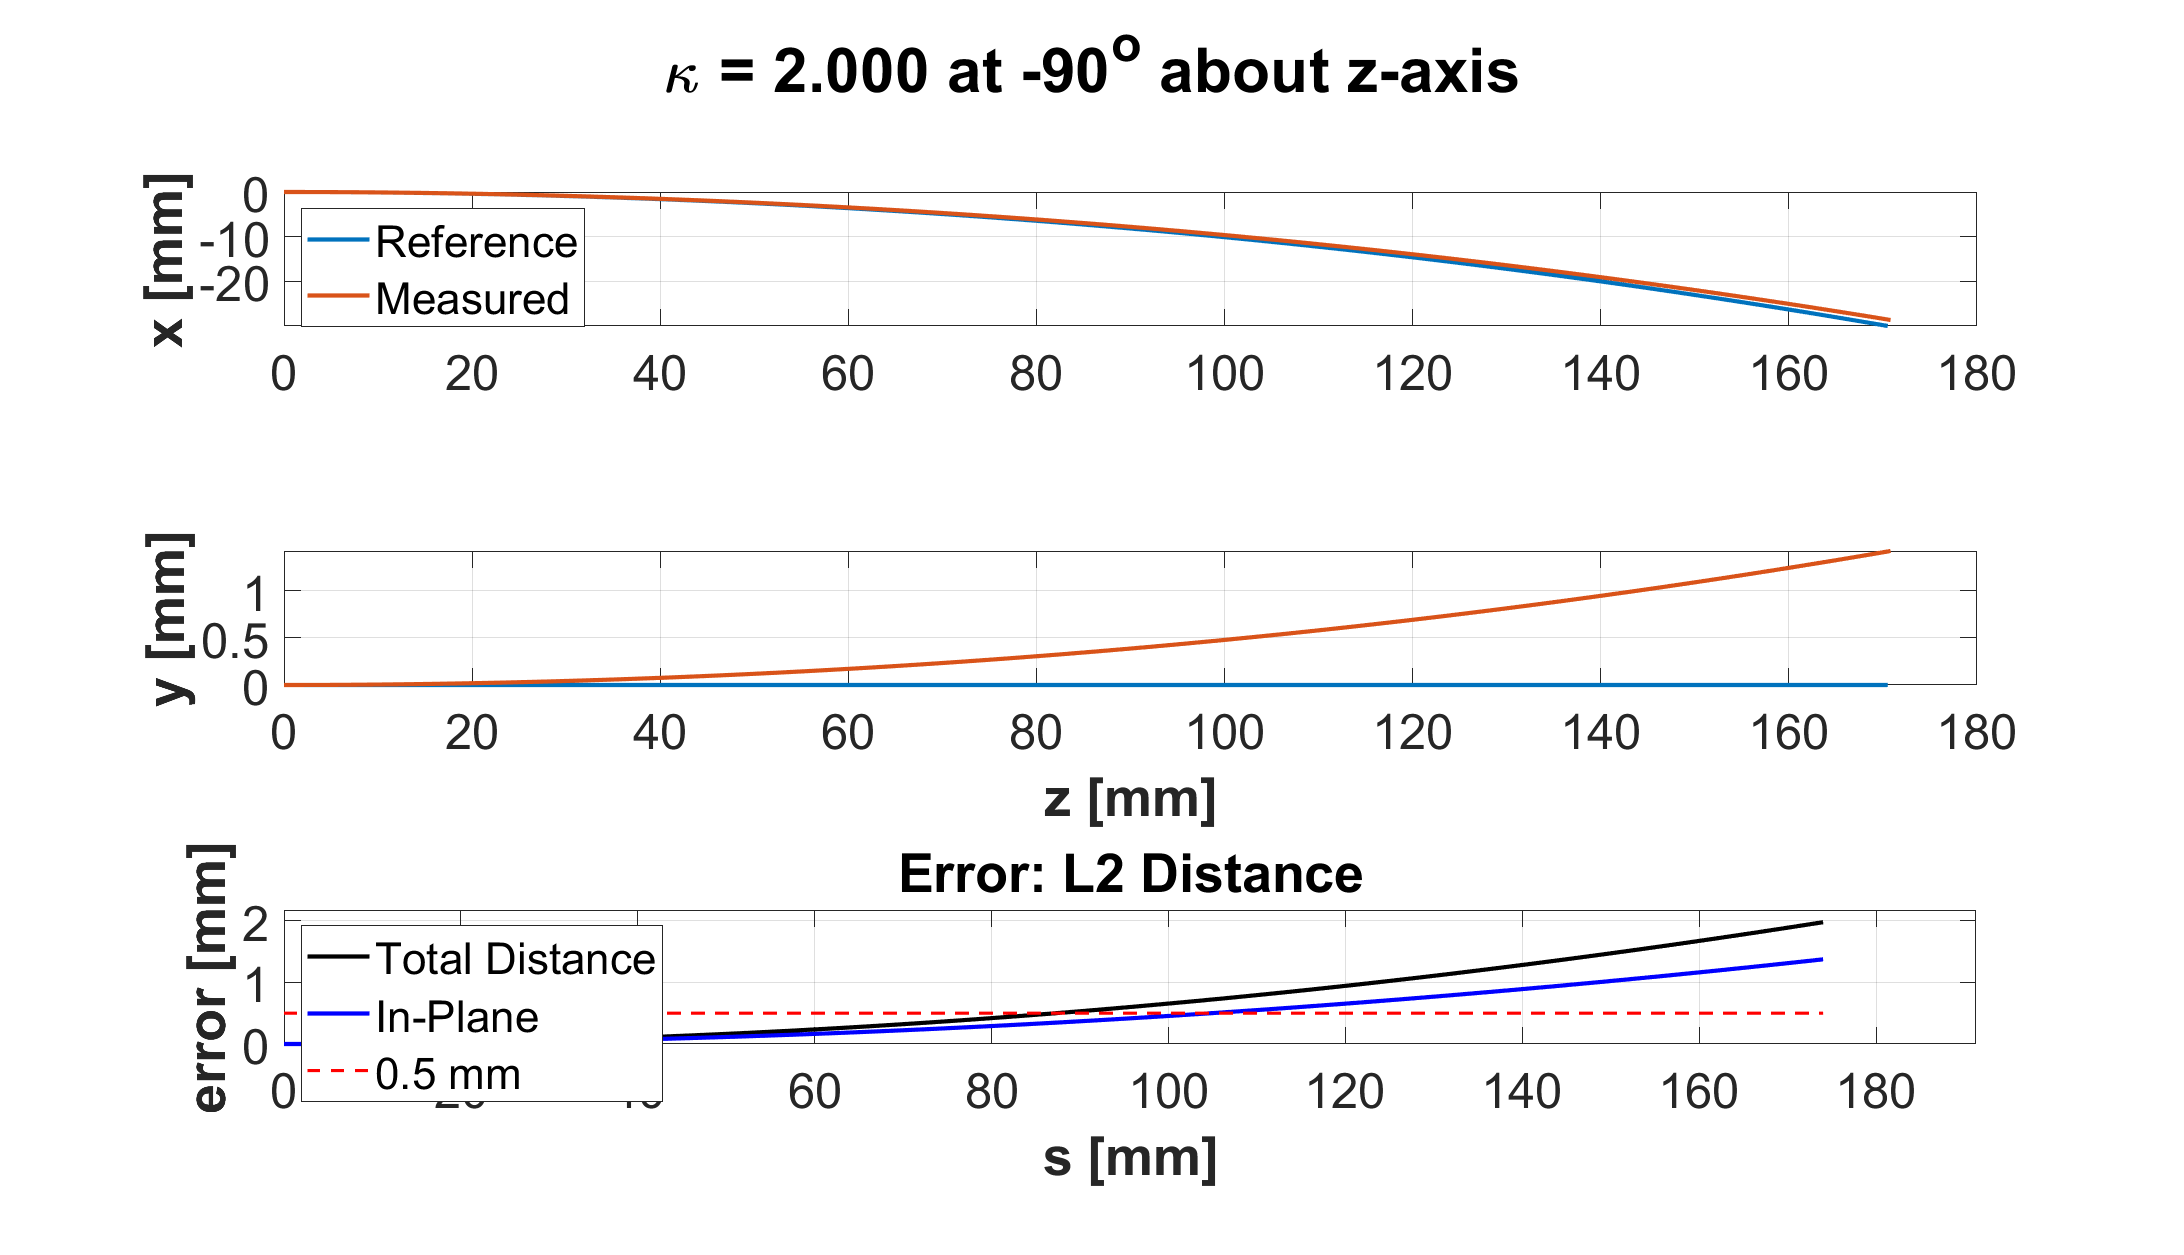
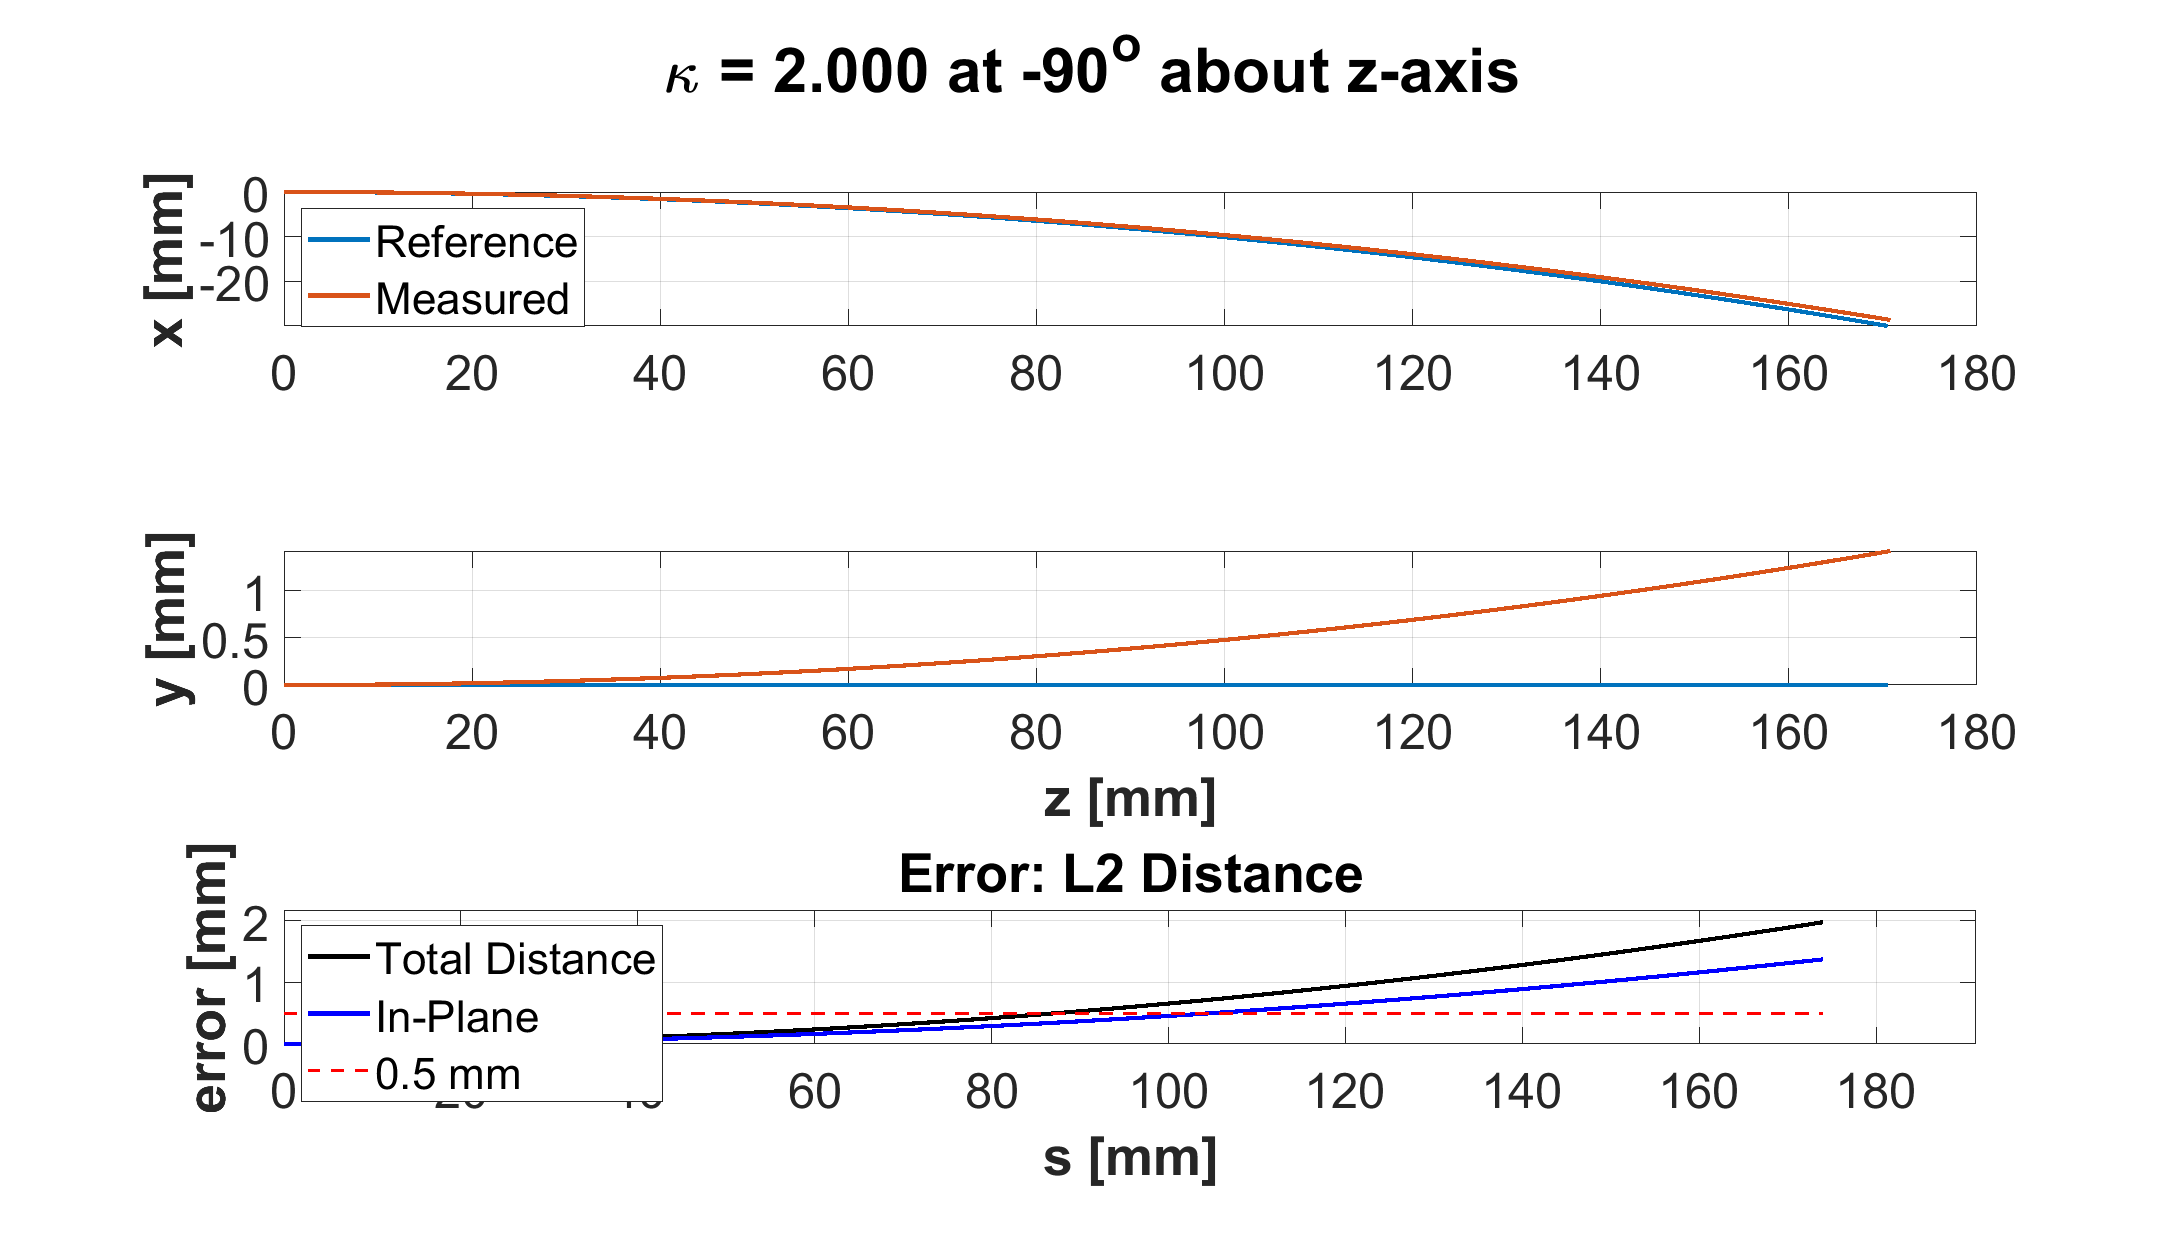
added old files

Changed region(s): [[0.5916, 0.7769, 0.6538, 0.808], [0.4048, 0.808, 0.467, 0.839]]

diff --git a/src/calibrationMatrix.py b/src/calibrationMatrix.py
@@ -11,7 +11,6 @@ import pandas as pd
 import glob, re, xlrd
 import time  # for debugging purposes
 from datetime import timedelta, datetime
-from _pickle import load
 from FBGNeedle import FBGNeedle
 
 
@@ -323,7 +322,11 @@ def leastsq_fit ( dict_of_data: dict, outfile: str = None, curv_wgt_rule = lambd
             curvature = np.asarray( curvature, dtype = np.float64 )
         
         # perform the weighting
-        weights = np.sqrt( np.diag( [curv_wgt_rule( k ) for k in np.linalg.norm( curvature, axis = 1 )] ) )
+        if aa in ['AA3', 'AA4']:
+            weights = np.sqrt( np.diag( [curv_wgt_rule( k ) for k in np.linalg.norm( curvature, axis = 1 )] ) )
+            
+        else:
+            weights = np.identity(curvature.shape[0])
         signal_w = weights.dot( signal )
         curvature_w = weights.dot( curvature )
         
@@ -836,12 +839,27 @@ def main_calmat():
     directory = "../FBG_Needle_Calibration_Data/needle_3CH_4AA/"
     needlejsonfile = "needle_params.json"
     
-    datadir = directory + "Jig_Calibration_08-05-20/"
-    datafile = "Data Matrices.xlsx"
+    # regular calibration data
+#     datadir = directory + "Jig_Calibration_08-05-20/"
+#     datafile = "Data Matrices_new.xlsx"
+#     needleparamfile = "needle_params.csv"
+#     out_needlejsonfile = needlejsonfile[:-5] + '-' + datadir.split( '/' )[-2] + '.json'
+    
+    # test mixed calibration data
+    datadir = directory + "Validation_Jig_Calibration_08-19-20/"
+    datafile = "Calibration_Test_Data_Matrices.xlsx"
     needleparamfile = "needle_params.csv"
     out_needlejsonfile = needlejsonfile[:-5] + '-' + datadir.split( '/' )[-2] + '.json'
     
+    
     lstsq_logfile = "least_sq.log"
+
+    # weighted least squares
+    weighted = True
+    if weighted:
+        out_needlejsonfile = out_needlejsonfile.replace('.json', '_weighted.json')
+        lstsq_logfile = lstsq_logfile.replace('.log', '_weighted.log')
+    # if
 
     fbg_needle = FBGNeedle.load_json( directory + needlejsonfile )
 #     calibration_data = _read_datamatrices( datadir + datafile, fbg_needle ) # deprecated
@@ -857,8 +875,19 @@ def main_calmat():
         print( 75 * '=' )
          
     # for
-
-    calibration_matrices = leastsq_fit( calibration_data, directory + lstsq_logfile )
+    
+    if weighted:
+        curv_wght_rule = lambda k: 5 if k <= 1.0 else 0.05
+        
+    # if
+    
+    else:
+        curv_wght_rule = lambda k: 1.0
+        
+    # else
+    
+    calibration_matrices = leastsq_fit( calibration_data, directory + lstsq_logfile,
+                                        curv_wgt_rule = curv_wght_rule )
     write_calibration_matrices( calibration_matrices, fbg_needle,
                                 fbg_outjson_file = directory + out_needlejsonfile )
     print( f"Wrote calibration matrices to '{needleparamfile}'" )
@@ -890,7 +919,7 @@ def main_datamatrices():
 # main_datamatrices
 
 
-def main_join_calval():
+def main_join_calval_signal():
     # load the directories
     directory = "../FBG_Needle_Calibration_Data/needle_3CH_4AA/"
     needlejsonfile = "needle_params-Jig_Calibration_08-05-20.json"
@@ -898,9 +927,9 @@ def main_join_calval():
     datadir_cal = directory + "Jig_Calibration_08-05-20/"
     datadir_val = directory + "Validation_Jig_Calibration_08-19-20/"
     
-    datafile_cal = datadir_cal + "Data Matrices (All).xlsx"
+    datafile_cal = datadir_cal + "Data Matrices_new.xlsx"
     datafile_val = datadir_val + "Data Matrices.xlsx"
-    datafile_out = datadir_val + "Data Matrices_all_calval"
+    datafile_out = datadir_val + "Data Matrices_calval"
     datafile_comb = datafile_out + ".xlsx"
     
     # load the FBGNeedle
@@ -1031,14 +1060,28 @@ def main_join_calval():
 def main_validation():
     # load the file information needed
     directory = "../FBG_Needle_Calibration_Data/needle_3CH_4AA/"
-    needlejsonfile = "needle_params-Jig_Calibration_08-05-20.json"
+    needlejsonfile = "needle_params-Jig_Calibration_08-05-20_weighted.json"
     
+#     # calibration
+#     datadir = directory + "Jig_Calibration_08-05-20/"
+#     datafile = "Data Matrices_new.xlsx"
+#     out_file = datadir + "Calibration_Error_raw.xlsx"
+    
+#     # validation
 #     datadir = directory + "Validation_Jig_Calibration_08-19-20/"
-    datadir = directory + "Jig_Calibration_08-05-20/"
-    datafile = "Data Matrices.xlsx"
-    
+#     datafile = "Data Matrices.xlsx"
 #     out_file = datadir + "Validation_Error_raw.xlsx"
-    out_file = datadir + "Calibration_Error_raw.xlsx"
+    
+    # test mixed calibration data
+    datadir = directory + "Validation_Jig_Calibration_08-19-20/"
+    datafile = "Calibration_Test_Data_Matrices.xlsx"
+    out_file = datadir + "Test_Calibration_error_raw.xlsx"
+    
+    if '_weighted' in needlejsonfile: # separate weighted condition
+        out_file = out_file.replace('_raw', '_weighted_raw')
+        
+    # if
+
     
     # load the json file
     fbg_needle = FBGNeedle.load_json( directory + needlejsonfile )
@@ -1095,9 +1138,9 @@ if __name__ == '__main__':
     # main()
 #     main_test()
 #     main_datamatrices()
-#     main_calmat()
-#     main_validation()
-    main_join_calval()
+    main_calmat()
+    main_validation()
+#     main_join_calval_signal()
     print( "Program Terminated." )
 
 # if

diff --git a/src/matlab_scripts/optimal_sensor_weights.m b/src/matlab_scripts/optimal_sensor_weights.m
@@ -24,22 +24,30 @@ end
 
 % file set-up
 directory = "../../FBG_Needle_Calibration_Data/needle_3CH_4AA/";
-fbgneedle_param = directory + "needle_params-Jig_Calibration_08-05-20.json";
-fbgneedle_param_out = strrep(fbgneedle_param, '.json', '_weighted.json');
+fbgneedle_param = directory + "needle_params-Jig_Calibration_08-05-20_weighted.json";
+fbgneedle_param_out = strrep(fbgneedle_param, '.json', '_weights.json');
 
-datadir = directory + "Jig_Calibration_08-05-20/"; % calibration data
-% datadir = directory + "Validation_Jig_Calibration_08-19-20/"; % validation data
-data_mats_file = datadir + "Data Matrices_new.xlsx";
-data_mats_proc_file = strrep(data_mats_file, '.xlsx', '_proc.xlsx');
-fig_save_file = datadir + "Jig_Shape_fit";
+% datadir = directory + "Jig_Calibration_08-05-20/"; % calibration data
+datadir = directory + "Validation_Jig_Calibration_08-19-20/"; % validation data
+data_mats_file = datadir + "Calibration_Test_Data_Matrices.xlsx";
+
+if contains(fbgneedle_param, 'weighted')
+    data_mats_proc_file = strrep(data_mats_file, '.xlsx', '_weighted.xlsx');
+    fig_save_file = datadir + "CalWeight_Jig_Shape_fit";
+else
+    data_mats_proc_file = data_mats_file;
+    fig_save_file = datadir + "Jig_Shape_fit";
+end
+
+data_mats_proc_file = strrep(data_mats_proc_file, '.xlsx', '_proc.xlsx');
 
 % paramteter set-up
 jig_offset = 26.0; % the jig offset of full insertion
-AA_weights = [];% [1, 0.9, 0.3, 0.0]; % [AA1, AA2, AA3, AA4] reliability weighting
-if ~isempty(AA_weights)
-    fig_save_file = fig_save_file + "_weighted";
-    
-end
+% AA_weights = [];% [1, 0.9, 0.3, 0.0]; % [AA1, AA2, AA3, AA4] reliability weighting
+% if ~isempty(AA_weights)
+%     fig_save_file = fig_save_file + "_weighted";
+%     
+% end
 
 %% Load FBGNeedle python class
 fbg_needle = py.FBGNeedle.FBGNeedle.load_json(fbgneedle_param);
@@ -79,16 +87,20 @@ for i = 1:length(AA_list)
     
 end
 
-% append the 'sum(weights) = 1' constraint ( eta := weights)
-W = [W; ones(1, size(W, 2))];
-w_act = [w_act; 1];
+% % append the 'sum(weights) = 1' constraint ( eta := weights)
+% W = [W; ones(1, size(W, 2))];
+% w_act = [w_act; 1];
 
 %% perform the non-negative least squares fit
-weights = lsqnonneg(W, w_act);
+curv_weight = curv_weight_rule(abs(w_act),false);
+D = sqrt(diag(curv_weight));
+weights = lsqlin(D*W, D*w_act, [], [], ones(1, size(W, 2)), [1], 0.0*ones(size(W, 2),1), []); % set lower bound
 weights = weights./sum(weights); % normalize just in case
 
 disp("Weights:");
 disp([AA_list; reshape(weights, 1, [])] )
+base_print = ['[ ', repmat('%f, ', 1, size(W, 2) - 1), '%f ]\n\n'];
+fprintf(base_print, weights);
 
 disp('Total error');
 disp(norm((W * weights - w_act)))
@@ -104,4 +116,21 @@ fbg_needle.set_weights(py_dict_weights);
 fbg_needle.save_json(fbgneedle_param_out);
 fprintf('Saved json parmater file: %s\n', fbgneedle_param_out);
 
+%% Functions
+% function for performing weighted least squares in curvature
+function curv_weight = curv_weight_rule(k, trivial)
+    disp(nargin)
+    curv_weight = ones(length(k), 1);
+    
+    if ~trivial 
+        for i = 1:length(k)
+            if abs(k(i)) <= 1
+                curv_weight(i) = 1;
 
+            else
+                curv_weight(i) = 0.05;
+
+            end
+        end
+    end
+end

diff --git a/src/matlab_scripts/jig_shape_validation.m b/src/matlab_scripts/jig_shape_validation.m
@@ -9,6 +9,7 @@ set(0,'DefaultAxesFontSize',24);
 %% Set-up 
 % options
 save_bool = true;
+process_only = false;
 
 % python set-up
 if ispc % windows file system
@@ -25,18 +26,27 @@ end
 
 % file set-up
 directory = "../../FBG_Needle_Calibration_Data/needle_3CH_4AA/";
-fbgneedle_param = directory + "needle_params-Jig_Calibration_08-05-20.json";
-% fbgneedle_param_weight = strrep(fbgneedle_param, '.json', '_weighted.json'); % weighted fbg parmeters
+% fbgneedle_param = directory + "needle_params-Jig_Calibration_08-05-20.json";
+fbgneedle_param = directory + "needle_params-Jig_Calibration_08-05-20_weighted.json"; % weighted calibration
+fbgneedle_param_weight = strrep(fbgneedle_param, '.json', '_weights.json'); % weighted fbg parmeters
 
-datadir = directory + "Jig_Calibration_08-05-20/"; % calibration data
-% datadir = directory + "Validation_Jig_Calibration_08-19-20/"; % validation data
-data_mats_file = datadir + "Data Matrices_new.xlsx";
-data_mats_proc_file = strrep(data_mats_file, '.xlsx', '_proc.xlsx');
-fig_save_file = datadir + "Jig_Shape_fit";
+% datadir = directory + "Jig_Calibration_08-05-20/"; % calibration data
+datadir = directory + "Validation_Jig_Calibration_08-19-20/"; % validation data
+data_mats_file = datadir + "Data Matrices_calval.xlsx"; % all data
+% data_mats_file = datadir + "Calibration_Test_Data_Matrices.xlsx";
+
+if contains(fbgneedle_param, 'weighted')
+    data_mats_proc_file = strrep(data_mats_file, '.xlsx', '_weighted.xlsx');
+    fig_save_file = datadir + "CalWeight_Jig_Shape_fit";
+else
+    data_mats_proc_file = data_mats_file;
+    fig_save_file = datadir + "Jig_Shape_fit";
+end
+data_mats_proc_file = strrep(data_mats_proc_file, '.xlsx', '_proc.xlsx');
 
 % paramteter set-up
 jig_offset = 26.0; % the jig offset of full insertion
-AA_weights = [ 0.3424, 0.6576, 0, 0 ]; % [AA1, AA2, AA3, AA4] reliability weighting
+AA_weights = [ 0.638028, 0.250019, 0.000000, 0.111952 ]; %[ 0.3424, 0.6576, 0, 0 ]; % [AA1, AA2, AA3, AA4] reliability weighting
 if ~isempty(AA_weights)
     fig_save_file = fig_save_file + "_weighted";
     
@@ -93,6 +103,10 @@ if save_bool
     disp(" ");
 end
 
+if process_only
+    disp('Program Terminated.');
+    return;
+end
 %% Process the data shapes
 s = 0:0.5:(double(fbg_needle.length) - jig_offset); % the arclength points
 num_expmts = length(data_mats.AA1.Curvature);
